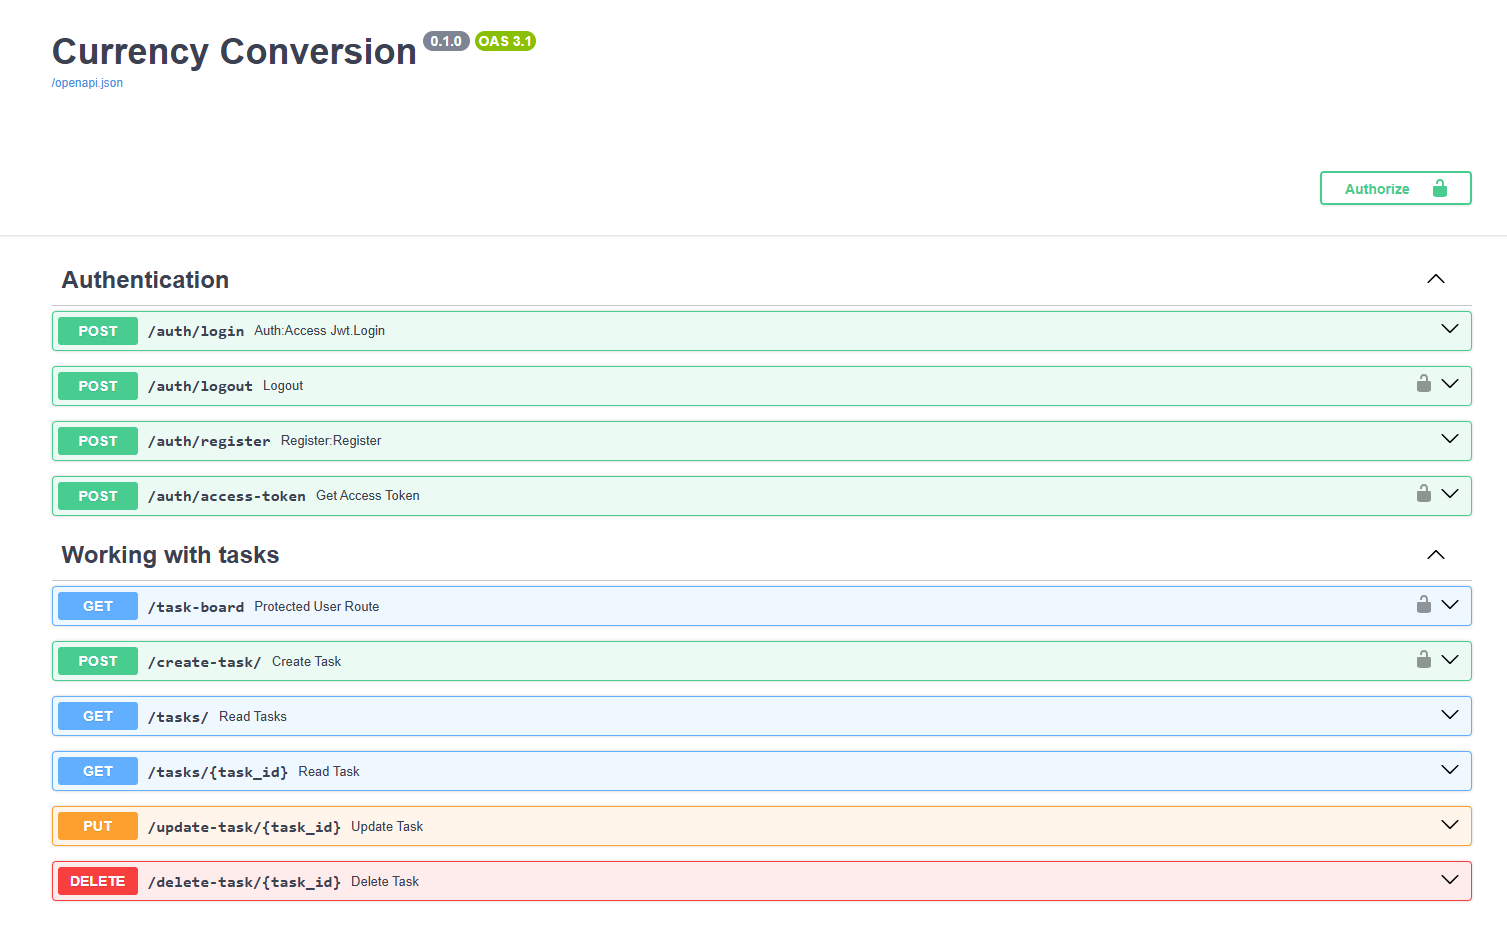
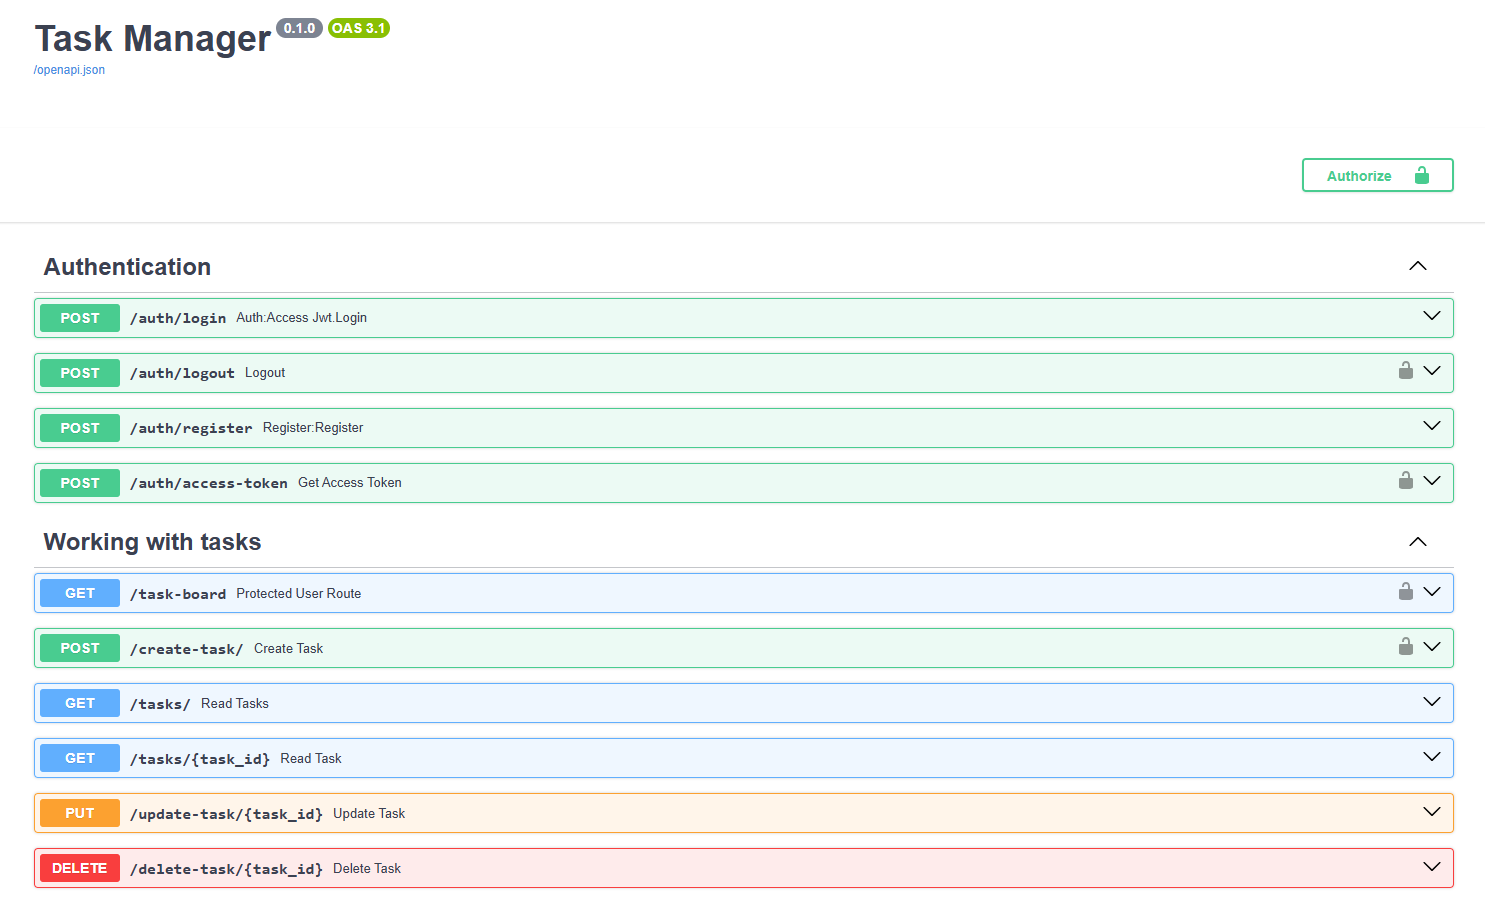
Написание README.md

diff --git a/src/main.py b/src/main.py
@@ -38,7 +38,7 @@ async def lifespan(app: FastAPI):
     yield
 
 app = FastAPI(
-    title='Currency Conversion',
+    title='Task Manager',
     lifespan=lifespan
 )
 
